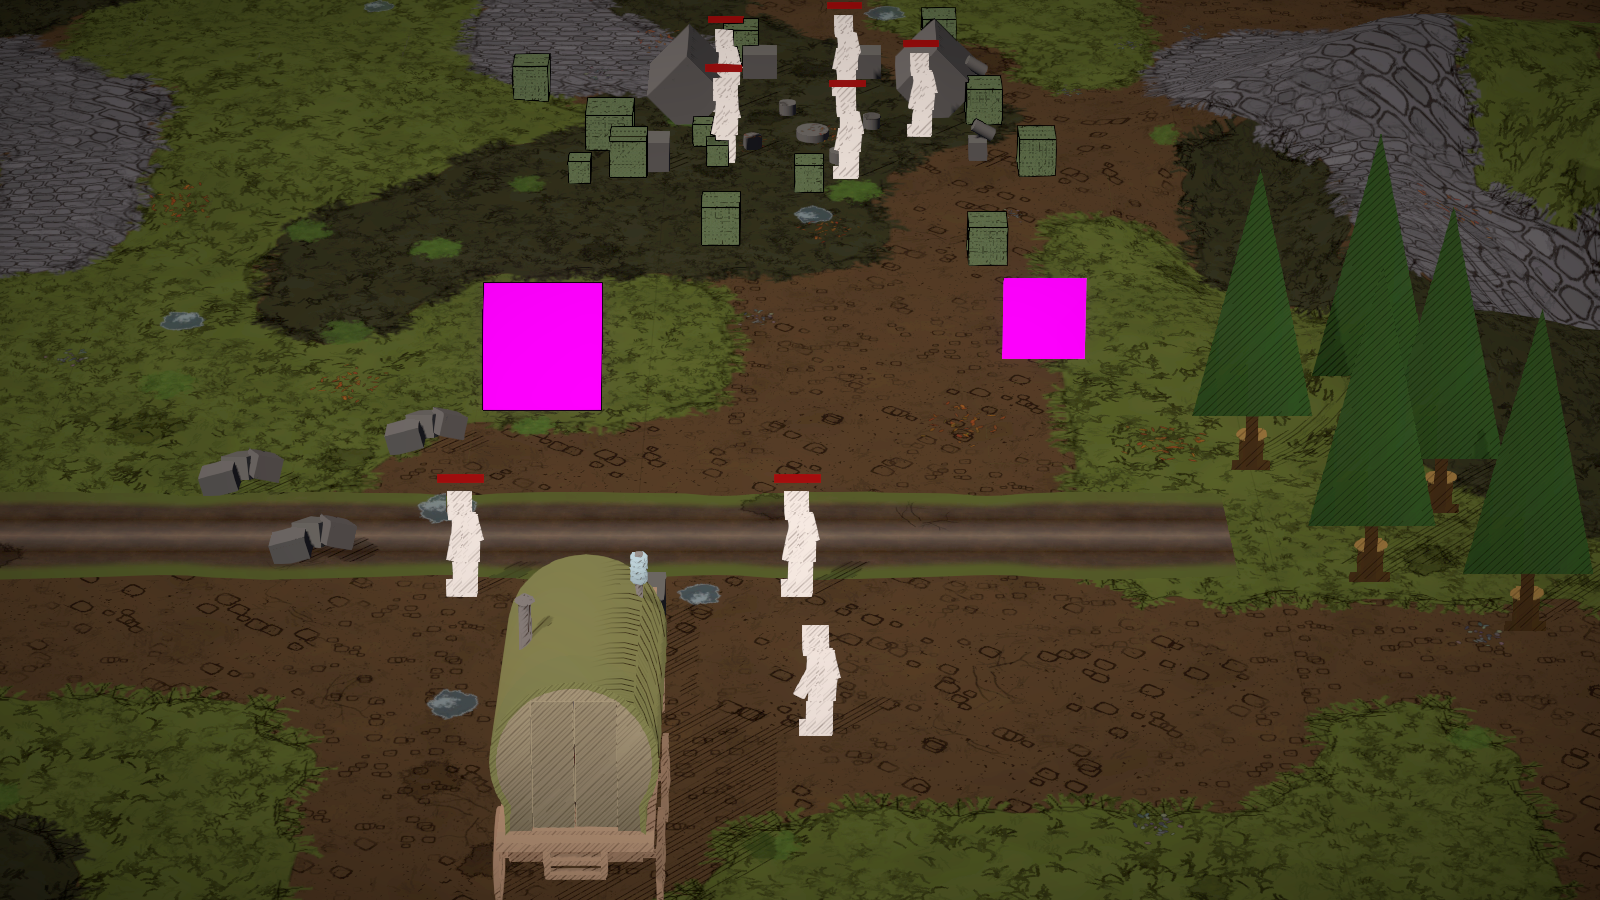
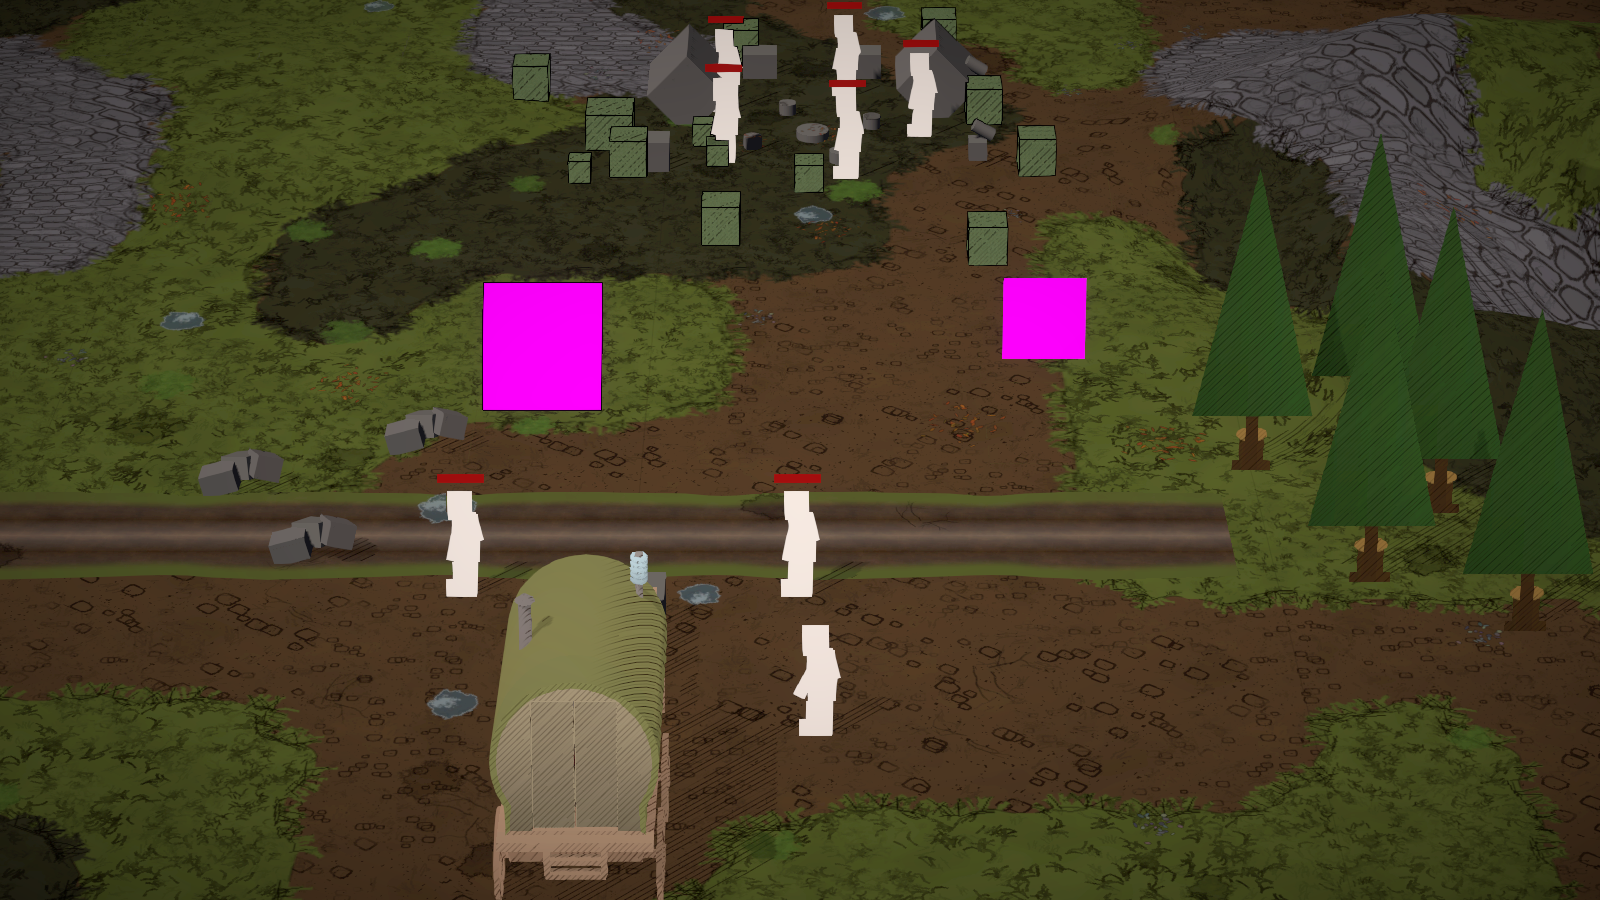
Ink Look: characters hatch only in cast shadow, world lines slide over them in X and Z
- The six 2D (flat card) graphs call SG_CardLighting -> PaintedCardLighting_float: a card has no real
  form, so only a cast shadow hatches it (no more full-card hatch from facing away from the sun).
- Object lines are slices of one fixed 3D direction instead of a per-face plane, so a unit moves
  through them the same way along X and Z; the World anchor is the default again.
- Captures 12-14 (character in the building's shadow, nudged along Z and X); 10-11 retired.

Claude-Session: https://claude.ai/code/session_013ze2L1zKYgWCpD1v92eQ3T

Changed region(s): [[0.375, 0.6533, 0.4062, 0.8089]]

diff --git a/Assets/_Scripts/MonoBehaviours/Terrain/TerrainLightingBridge.cs b/Assets/_Scripts/MonoBehaviours/Terrain/TerrainLightingBridge.cs
@@ -23,10 +23,9 @@ public class TerrainLightingBridge : MonoBehaviour
 
     public enum ObjectHatchAnchor
     {
-        // Lines fixed in the world. On camera-facing cards (units) this is inconsistent: the card's plane holds only X and Y,
-        // so walking along X slides the lines but walking along Z does not.
+        // Lines fixed in the world: static things never change, a walking unit moves through them the same way along X or Z.
         World = 0,
-        // Lines measured from each object's origin: they ride with a moving unit, but can jump where its body parts meet.
+        // Lines measured from each object's origin: they ride with a moving unit, but jump where its body parts meet.
         Object = 1,
     }
 
@@ -87,10 +86,10 @@ public class TerrainLightingBridge : MonoBehaviour
     public float shadowDrawnOnlyByHatch = 1f;
 
     [Range(0f, 1f)]
-    [Tooltip("Hatch lines in the shade on characters, props and buildings (every painted-lighting graph). 0 = ground only.")]
+    [Tooltip("Hatch lines in the shade on buildings and props, and on characters where a cast shadow falls on them. 0 = ground only.")]
     public float objectHatchStrength = 1f;
 
-    public ObjectHatchAnchor objectHatchAnchor = ObjectHatchAnchor.Object;
+    public ObjectHatchAnchor objectHatchAnchor = ObjectHatchAnchor.World;
 
     [Range(0f, 1f)]
     [Tooltip("1 = shade on objects stops darkening and only the hatch draws it; 0 = normal shade tone with hatch on top.")]

diff --git a/Assets/_Vault/Tasks/Captures/InkLook_2026-11-19/InkLook_Captures.md b/Assets/_Vault/Tasks/Captures/InkLook_2026-11-19/InkLook_Captures.md
@@ -7,12 +7,12 @@ area: Shaders / PaintedGround
 
 Spec: [[InkLook_System]] · checklist: [[verify-ink-look]] · reference: `Tasks/Claude/TextureInspo.png`
 
-Captured in the Editor from the CampLoop Main Camera (1600×900), Ink Look Bridge on, Object Hatch Anchor = Object
-unless noted. The magenta squares are two `Quad` objects in CampLoop with no material; they are not part of this work.
+Captured in the Editor from the CampLoop Main Camera (1600×900), Ink Look Bridge on, Object Hatch Anchor = World. The magenta squares are two `Quad` objects in CampLoop with no material; they are not part of this work.
 The zoomed-out stand-in ground only exists in Play mode, so it is not in these shots.
 
 ## 1. Game camera, ink look on
-Ground shadows hatched; objects now hatched on the side away from the sun (caravan canvas, trees, crates, characters).
+Ground shadows hatched; caravan canvas, trees and crates hatched on the side away from the sun. Characters standing in
+sun stay clean: flat cards are hatched only where a cast shadow falls on them.
 ![[01_game_view_ink_on.png]]
 
 ## 2. Same view, ink look off (before)
@@ -41,10 +41,15 @@ The canvas side facing away from the sun is hatched; half the normal shade darke
 The front faces away from the sun, so the whole face is hatched, like the shaded building fronts in the reference.
 ![[09_building_closeup.png]]
 
-## 10. Character close-up, Object anchor (default)
-Lines ride with the unit in every direction. Faint block seams show where its separate body parts meet.
-![[10_character_closeup_object_anchor.png]]
+## 12. Character in the building's shadow
+The character was moved into the building's cast shadow for this shot (editor-only, not saved): hatched, like the ground
+around it.
+![[12_character_in_building_shadow.png]]
 
-## 11. Character close-up, World anchor
-Same seams; in motion this one slides when walking along X but not along Z (the owner's report), so Object is the default.
-![[11_character_closeup_world_anchor.png]]
+## 13. Same character nudged 0.3 m along Z
+The dash pattern on the body is different from shot 12: the world-fixed lines slide across the character.
+![[13_character_moved_along_z.png]]
+
+## 14. Same character nudged 0.3 m along X
+Different again: the lines slide the same way for X motion as for Z.
+![[14_character_moved_along_x.png]]

diff --git a/Assets/_Vault/Tasks/Verification/InkLook_System.md b/Assets/_Vault/Tasks/Verification/InkLook_System.md
@@ -290,6 +290,17 @@ the World anchor, hatch slid over a unit walking along X but not along Z.
   The fix is a per-actor anchor (root position as a per-instance property, the `BodyPartTint` pattern), not built.
 - Open: characters whose card faces away from the sun are hatched all over (capture 10).
 
+## Owner feedback round 4 (2026-11-20) — characters: real shade only, lines slide
+
+Owner: with the Object anchor the lines did not move on characters at all; asked for both "hatch only in real shade" and
+"lines slide over them".
+- Flat cards hatch only from cast shadows: the six `2D*` graphs now call `SG_CardLighting` (`PaintedGroundGraph.hlsl` ->
+  `PaintedCardLighting_float`); 3D graphs, tree cards, ribbon and glass keep `SG_Lighting` / `PaintedLighting_float`.
+  Renaming a graph's Custom Function is a two-line JSON edit (`m_FunctionName` + the node `m_Name`); same ports.
+- Object lines are slices of one fixed 3D direction (1, -1, -1): "/" on cards and on horizontal surfaces, and a unit
+  moves through them equally along X and Z (captures 12-14). Anchor default back to World.
+- Still open: per-part seams under the Object anchor (per-actor anchor not built); not visible under World.
+
 ## Open decisions
 
 Recorded defaults (architecture calls, decided here; overturn freely):

diff --git a/Assets/_Vault/Memories/Code/Shaders.md b/Assets/_Vault/Memories/Code/Shaders.md
@@ -54,8 +54,8 @@ Spec + build log: `Tasks/Verification/InkLook_System.md`; look pass `verify-ink-
   zoomed-out stand-ins are baked material copies (`TerrainStrategicBaker`) and never picked them up.
 - **Hatch = `StitchGroundHatchLines` in `PaintedGround.shader`**, analytic and world-locked, constant on-screen spacing
   via octave stepping (a fixed-size texture hatch was rejected: swam with the camera, pixelated close, vanished far).
-  Objects are hatched too (2026-11-20) via `StitchObjectHatchLines` in `PaintedLighting_float`, anchor default Object
-  (World on camera-facing cards only moves with X motion). The hatch mask ignores material shade strength (objects run
+  Objects are hatched too (2026-11-20) via `StitchObjectHatchLines` (slices of one 3D direction, anchor default World);
+  the `2D*` graphs call `SG_CardLighting` so flat cards hatch only from cast shadows. The hatch mask ignores material shade strength (objects run
   N.L influence 0.15 and never crossed it). Units are multi-part entities: part-border seams until a per-actor anchor.
 - `StitchPaintedLighting` (core) = the lighting body with hatch + shadow lift inputs; `PaintedLighting_float` passes 0, 0.
 - **Editor captures after a recompile render empty** (only plain GameObjects): the tile subscenes close and the
